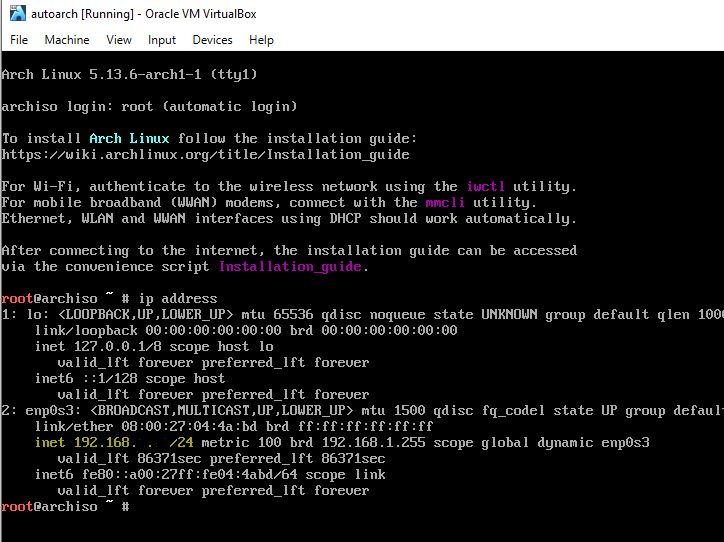
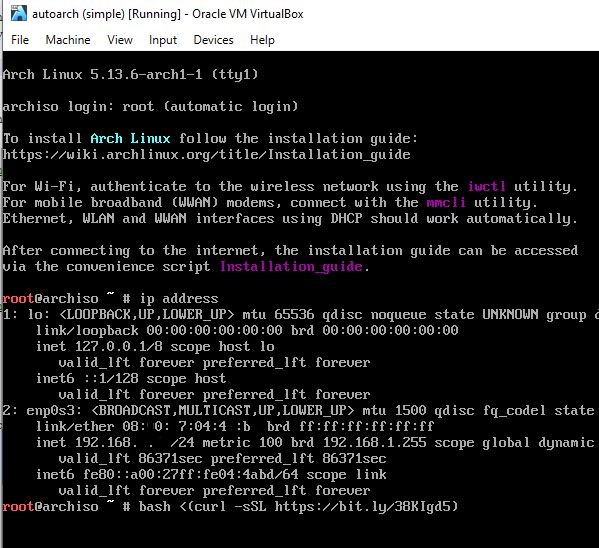
img update,add short and better details to readme

Changed region(s): [[0.0, 0.0, 1.0, 1.0], [0.4207, 0.059, 0.4508, 0.0886]]

diff --git a/README.md b/README.md
@@ -2,7 +2,7 @@
 
 Experimental script that installs Arch Linux on an Auto-encrypted LUKS LVM . It will wipe out all the data in the selected drive, so use at your own risk. We recommended you use : \ Oracle virtualbox for the usb passthrough accuracy (setup in docs folder ) \ solokey will be an optional extra added later to simplify the login decryption
 
-Not Tested on AMD
+Not Tested on AMD, RISC-V or ARM
 
 ## Usage
 To install arch on an intel Virtual Machine
@@ -10,13 +10,21 @@ Just run:
 ```
 bash <(curl -sSL https://raw.githubusercontent.com/blocbit/loxxon.org/main/archS.sh)
 ```
+or shortened
+```
+bash <(curl -sSL https://bit.ly/38KIqd5)
+```
 or for advanced users that wish to change their LUKS secret add parameters in the following order( disk path, cpu type, LUKS secret) .NB. all or none
 ```
 bash <(curl -sSL https://raw.githubusercontent.com/blocbit/loxxon.org/main/archS.sh) /dev/sda intel n3ws3cr3t
 ```
 
 ## Explanation
-I just make the whole /run accessible to the chroot jail, because grub-mkconfig needs access to /run/lvm and /run/udev to run properly when Arch Linux is installed on LVM.
+
+early stage docs at https://loxxon.org/
+
+We made the whole /run accessible to the chroot jail as grub-mkconfig needs access to /run/lvm and /run/udev to run properly when Arch Linux is installed on LVM.
+
 ```
 mkdir /mnt/hostrun
 mount --bind /run /mnt/hostrun
